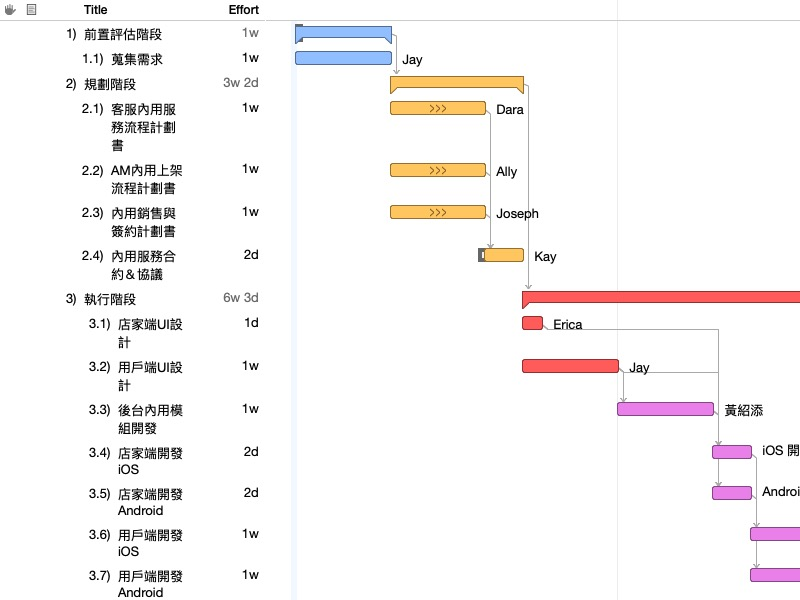
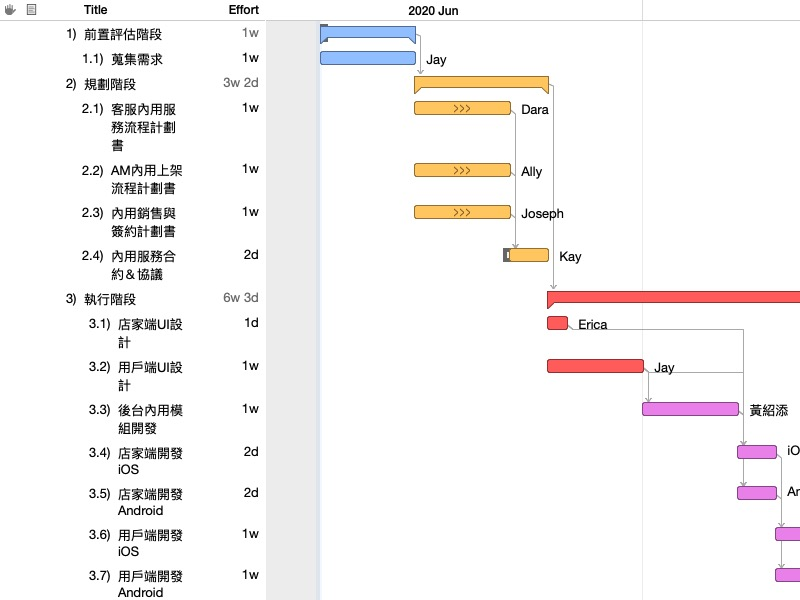
update filet

diff --git a/timeline.html b/timeline.html
@@ -3,7 +3,7 @@
 
 <html xmlns="http://www.w3.org/1999/xhtml">
 	<head>
-		<title>202005-202008內用腹仇者計劃: Resource Timeline</title>
+		<title>202006-202008內用腹仇者計劃: Resource Timeline</title>
         <meta http-equiv="Content-Type" content="text/html; charset=utf-8" />
         <link rel="stylesheet" type="text/css" href="include/style.css">
 	</head>
@@ -27,43 +27,19 @@
         </div>
 	<div id="contentwrap">	
 		<div id="content" class="box">
-	<h1>202005-202008內用腹仇者計劃: Timeline</h1>
+	<h1>202006-202008內用腹仇者計劃: Timeline</h1>
 		<div class="tablewrap"><table border="0" cellspacing="0" cellpadding="0">
 <tr>
 	<td><img src="include/timeline0,0.jpg" border=0/></td>
 	<td><img src="include/timeline1,0.jpg" border=0/></td>
-	<td><img src="include/timeline2,0.jpg" border=0/></td>
-	<td><img src="include/timeline3,0.jpg" border=0/></td>
-	<td><img src="include/timeline4,0.jpg" border=0/></td>
-	<td><img src="include/timeline5,0.jpg" border=0/></td>
-	<td><img src="include/timeline6,0.jpg" border=0/></td>
-	<td><img src="include/timeline7,0.jpg" border=0/></td>
-	<td><img src="include/timeline8,0.jpg" border=0/></td>
-	<td><img src="include/timeline9,0.jpg" border=0/></td>
 <br clear=all />
 <tr>
 	<td><img src="include/timeline0,1.jpg" border=0/></td>
 	<td><img src="include/timeline1,1.jpg" border=0/></td>
-	<td><img src="include/timeline2,1.jpg" border=0/></td>
-	<td><img src="include/timeline3,1.jpg" border=0/></td>
-	<td><img src="include/timeline4,1.jpg" border=0/></td>
-	<td><img src="include/timeline5,1.jpg" border=0/></td>
-	<td><img src="include/timeline6,1.jpg" border=0/></td>
-	<td><img src="include/timeline7,1.jpg" border=0/></td>
-	<td><img src="include/timeline8,1.jpg" border=0/></td>
-	<td><img src="include/timeline9,1.jpg" border=0/></td>
 <br clear=all />
 <tr>
 	<td><img src="include/timeline0,2.jpg" border=0/></td>
 	<td><img src="include/timeline1,2.jpg" border=0/></td>
-	<td><img src="include/timeline2,2.jpg" border=0/></td>
-	<td><img src="include/timeline3,2.jpg" border=0/></td>
-	<td><img src="include/timeline4,2.jpg" border=0/></td>
-	<td><img src="include/timeline5,2.jpg" border=0/></td>
-	<td><img src="include/timeline6,2.jpg" border=0/></td>
-	<td><img src="include/timeline7,2.jpg" border=0/></td>
-	<td><img src="include/timeline8,2.jpg" border=0/></td>
-	<td><img src="include/timeline9,2.jpg" border=0/></td>
 <br clear=all />
 </table>
 </div>

diff --git a/gantt.html b/gantt.html
@@ -3,7 +3,7 @@
 
 <html xmlns="http://www.w3.org/1999/xhtml">
 	<head>
-		<title>202005-202008內用腹仇者計劃: Gantt Chart</title>
+		<title>202006-202008內用腹仇者計劃: Gantt Chart</title>
         <meta http-equiv="Content-Type" content="text/html; charset=utf-8" />
         <link rel="stylesheet" type="text/css" href="include/style.css">
 	</head>
@@ -27,15 +27,15 @@
         </div>
 	<div id="contentwrap">	
 		<div id="content" class="box">
-	<h1>202005-202008內用腹仇者計劃: Gantt Chart</h1>
+	<h1>202006-202008內用腹仇者計劃: Gantt Chart</h1>
 		<div class="tablewrap"><table border="0" cellspacing="0" cellpadding="0">
 <tr>
-	<td><img src="include/gantt0,0.jpg?nocacheTag=481269414" border=0/></td>
-	<td><img src="include/gantt1,0.jpg?nocacheTag=-1487937105" border=0/></td>
+	<td><img src="include/gantt0,0.jpg?nocacheTag=1344252430" border=0/></td>
+	<td><img src="include/gantt1,0.jpg?nocacheTag=-1190292740" border=0/></td>
 </tr>
 <tr>
-	<td><img src="include/gantt0,1.jpg?nocacheTag=-658210739" border=0/></td>
-	<td><img src="include/gantt1,1.jpg?nocacheTag=303178945" border=0/></td>
+	<td><img src="include/gantt0,1.jpg?nocacheTag=255757549" border=0/></td>
+	<td><img src="include/gantt1,1.jpg?nocacheTag=-2076218056" border=0/></td>
 </tr>
 </table>
 </div>

diff --git a/index.html b/index.html
@@ -3,7 +3,7 @@
 
 <html xmlns="http://www.w3.org/1999/xhtml">
 	<head>
-		<title>202005-202008內用腹仇者計劃: Overview</title>
+		<title>202006-202008內用腹仇者計劃: Overview</title>
         <meta http-equiv="Content-Type" content="text/html; charset=utf-8" />
         <link rel="stylesheet" type="text/css" href="include/style.css">
 	</head>
@@ -34,14 +34,14 @@
 		<div id="completed" class="box">
 			<h2><span class="number">0%</span> Completed</h2>
 			<div id="bar"><div id="fill" style="width:0%;"></div></div>
-			<p><span class="label">Start:</span> 2019/1/17, 8:00 AM</p>
+			<p><span class="label">Start:</span> 2020/6/8, 8:00 AM</p>
 			<p><span class="label">End Date:</span> 2020/7/28, 3:00 PM</p>
 			<p><span class="label">Variance:</span> <span class="data-missing">None</span></p>
 		</div>	
 		
 	</div>
 	<div id="maincontent" class="box">
-		<h1>202005-202008內用腹仇者計劃</h1>
+		<h1>202006-202008內用腹仇者計劃</h1>
 		
 		<h2>Resource summary</h2>
 		<div class="tablewrap">

diff --git a/montecarlo.html b/montecarlo.html
@@ -3,7 +3,7 @@
 
 <html xmlns="http://www.w3.org/1999/xhtml">
 	<head>
-		<title>202005-202008內用腹仇者計劃: Monte Carlo Simulation</title>
+		<title>202006-202008內用腹仇者計劃: Monte Carlo Simulation</title>
         <meta http-equiv="Content-Type" content="text/html; charset=utf-8" />
         <link rel="stylesheet" type="text/css" href="include/style.css">
 	</head>
@@ -27,7 +27,7 @@
         </div>
 	<div id="contentwrap">	
 		<div id="content" class="box">
-	<h1>202005-202008內用腹仇者計劃: <span class="titlename">Monte Carlo Simulation</span></h1>
+	<h1>202006-202008內用腹仇者計劃: <span class="titlename">Monte Carlo Simulation</span></h1>
                </div>
 	</div><!-- end contentwrap -->
 	 <p class="exported">Exported 2020/6/7</p>

diff --git a/resource.html b/resource.html
@@ -3,7 +3,7 @@
 
 <html xmlns="http://www.w3.org/1999/xhtml">
 <head>
-    <title>202005-202008內用腹仇者計劃: Resource Report</title>
+    <title>202006-202008內用腹仇者計劃: Resource Report</title>
     <meta http-equiv="Content-Type" content="text/html; charset=utf-8" />
     <link rel="stylesheet" type="text/css" href="include/style.css" />
 </head>
@@ -41,7 +41,7 @@
 
     <div id="contentwrap">
         <div id="content" class="box">
-            <h1>202005-202008內用腹仇者計劃: Resource Timeline</h1>
+            <h1>202006-202008內用腹仇者計劃: Resource Timeline</h1>
 
             <div class="tablewrap">
                <table class="basic" id="resource-report">

diff --git a/eva.html b/eva.html
@@ -3,7 +3,7 @@
 
 <html xmlns="http://www.w3.org/1999/xhtml">
 <head>
-    <title>202005-202008內用腹仇者計劃: Earned Value Analysis</title>
+    <title>202006-202008內用腹仇者計劃: Earned Value Analysis</title>
     <meta http-equiv="Content-Type" content="text/html; charset=utf-8" />
     <link rel="stylesheet" type="text/css" href="include/style.css" />
 </head>
@@ -40,7 +40,7 @@
 
     <div id="contentwrap">
         <div id="content" class="box">
-            <h1>202005-202008內用腹仇者計劃: Earned Value Analysis</h1>
+            <h1>202006-202008內用腹仇者計劃: Earned Value Analysis</h1>
 
             <div class="tablewrap">
             <table class="basic">

diff --git a/task.html b/task.html
@@ -3,7 +3,7 @@
 
 <html xmlns="http://www.w3.org/1999/xhtml">
 <head>
-    <title>202005-202008內用腹仇者計劃: Task Report</title>
+    <title>202006-202008內用腹仇者計劃: Task Report</title>
     <meta http-equiv="Content-Type" content="text/html; charset=utf-8" />
     <link rel="stylesheet" type="text/css" href="include/style.css" />
 </head>
@@ -41,7 +41,7 @@
 
     <div id="contentwrap">
         <div id="content" class="box">
-            <h1>202005-202008內用腹仇者計劃: Task Report</h1>
+            <h1>202006-202008內用腹仇者計劃: Task Report</h1>
 
             <div class="tablewrap">
            <table class="basic" id="task-report">
